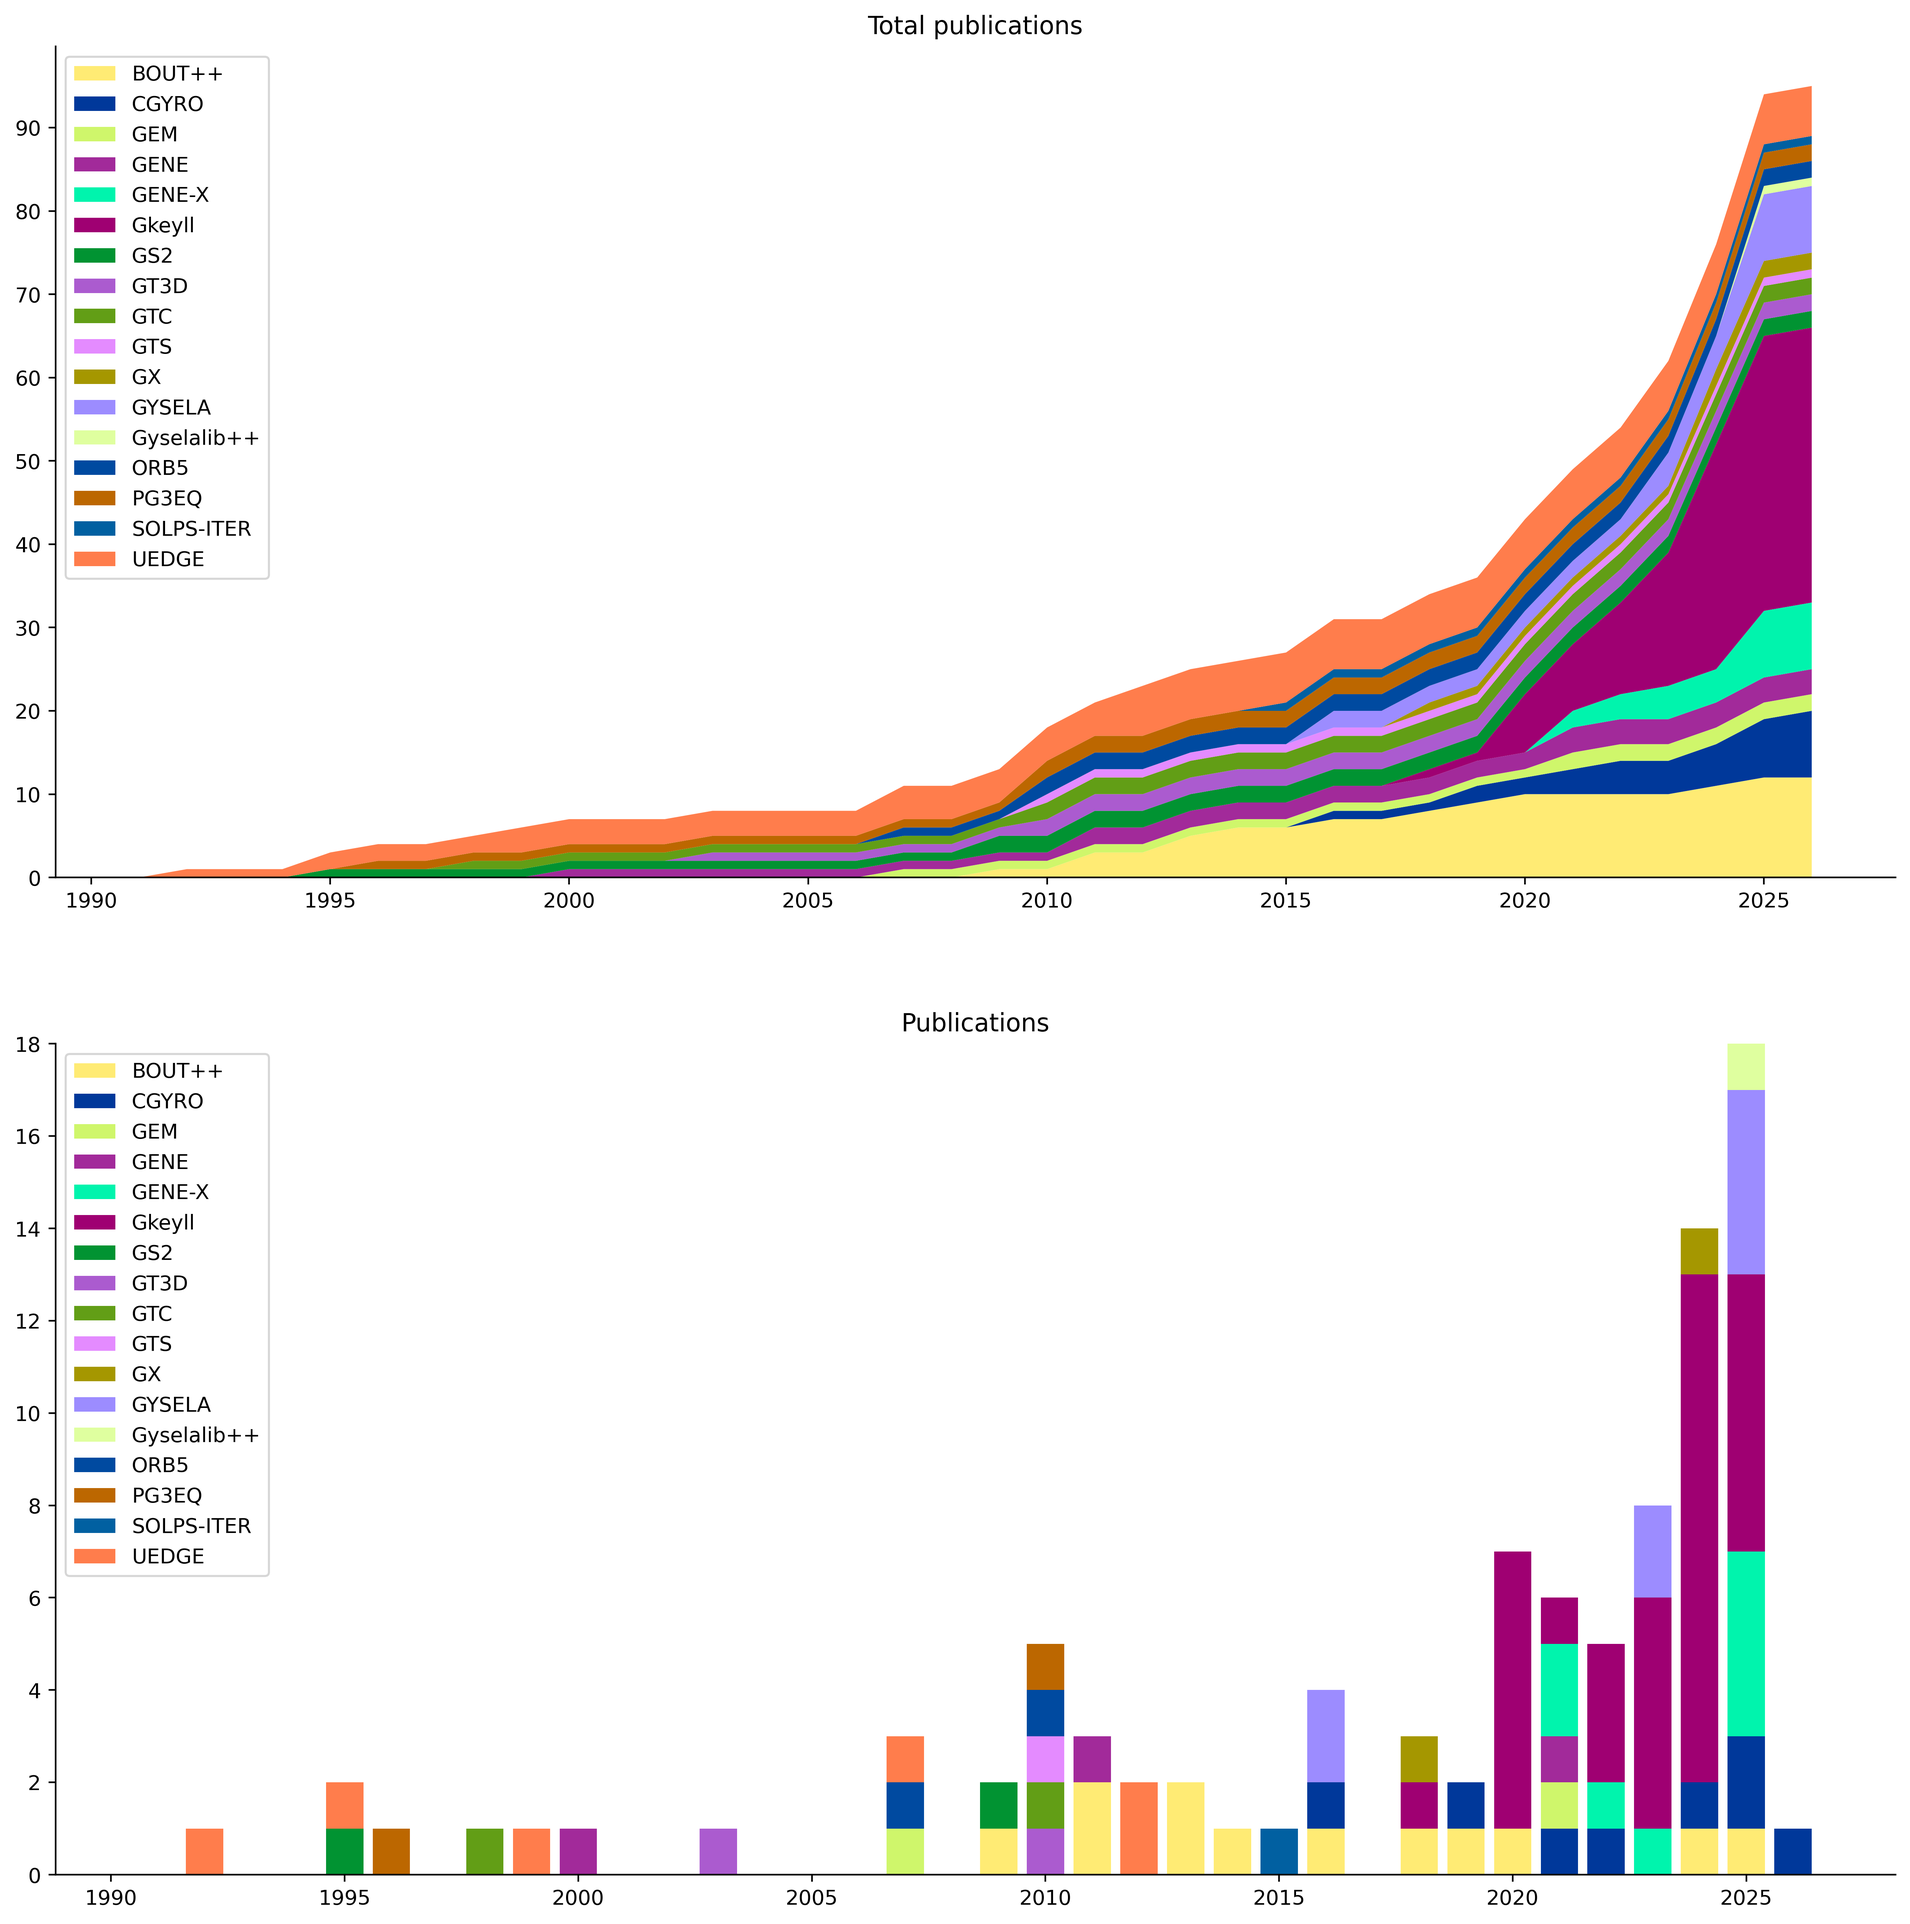
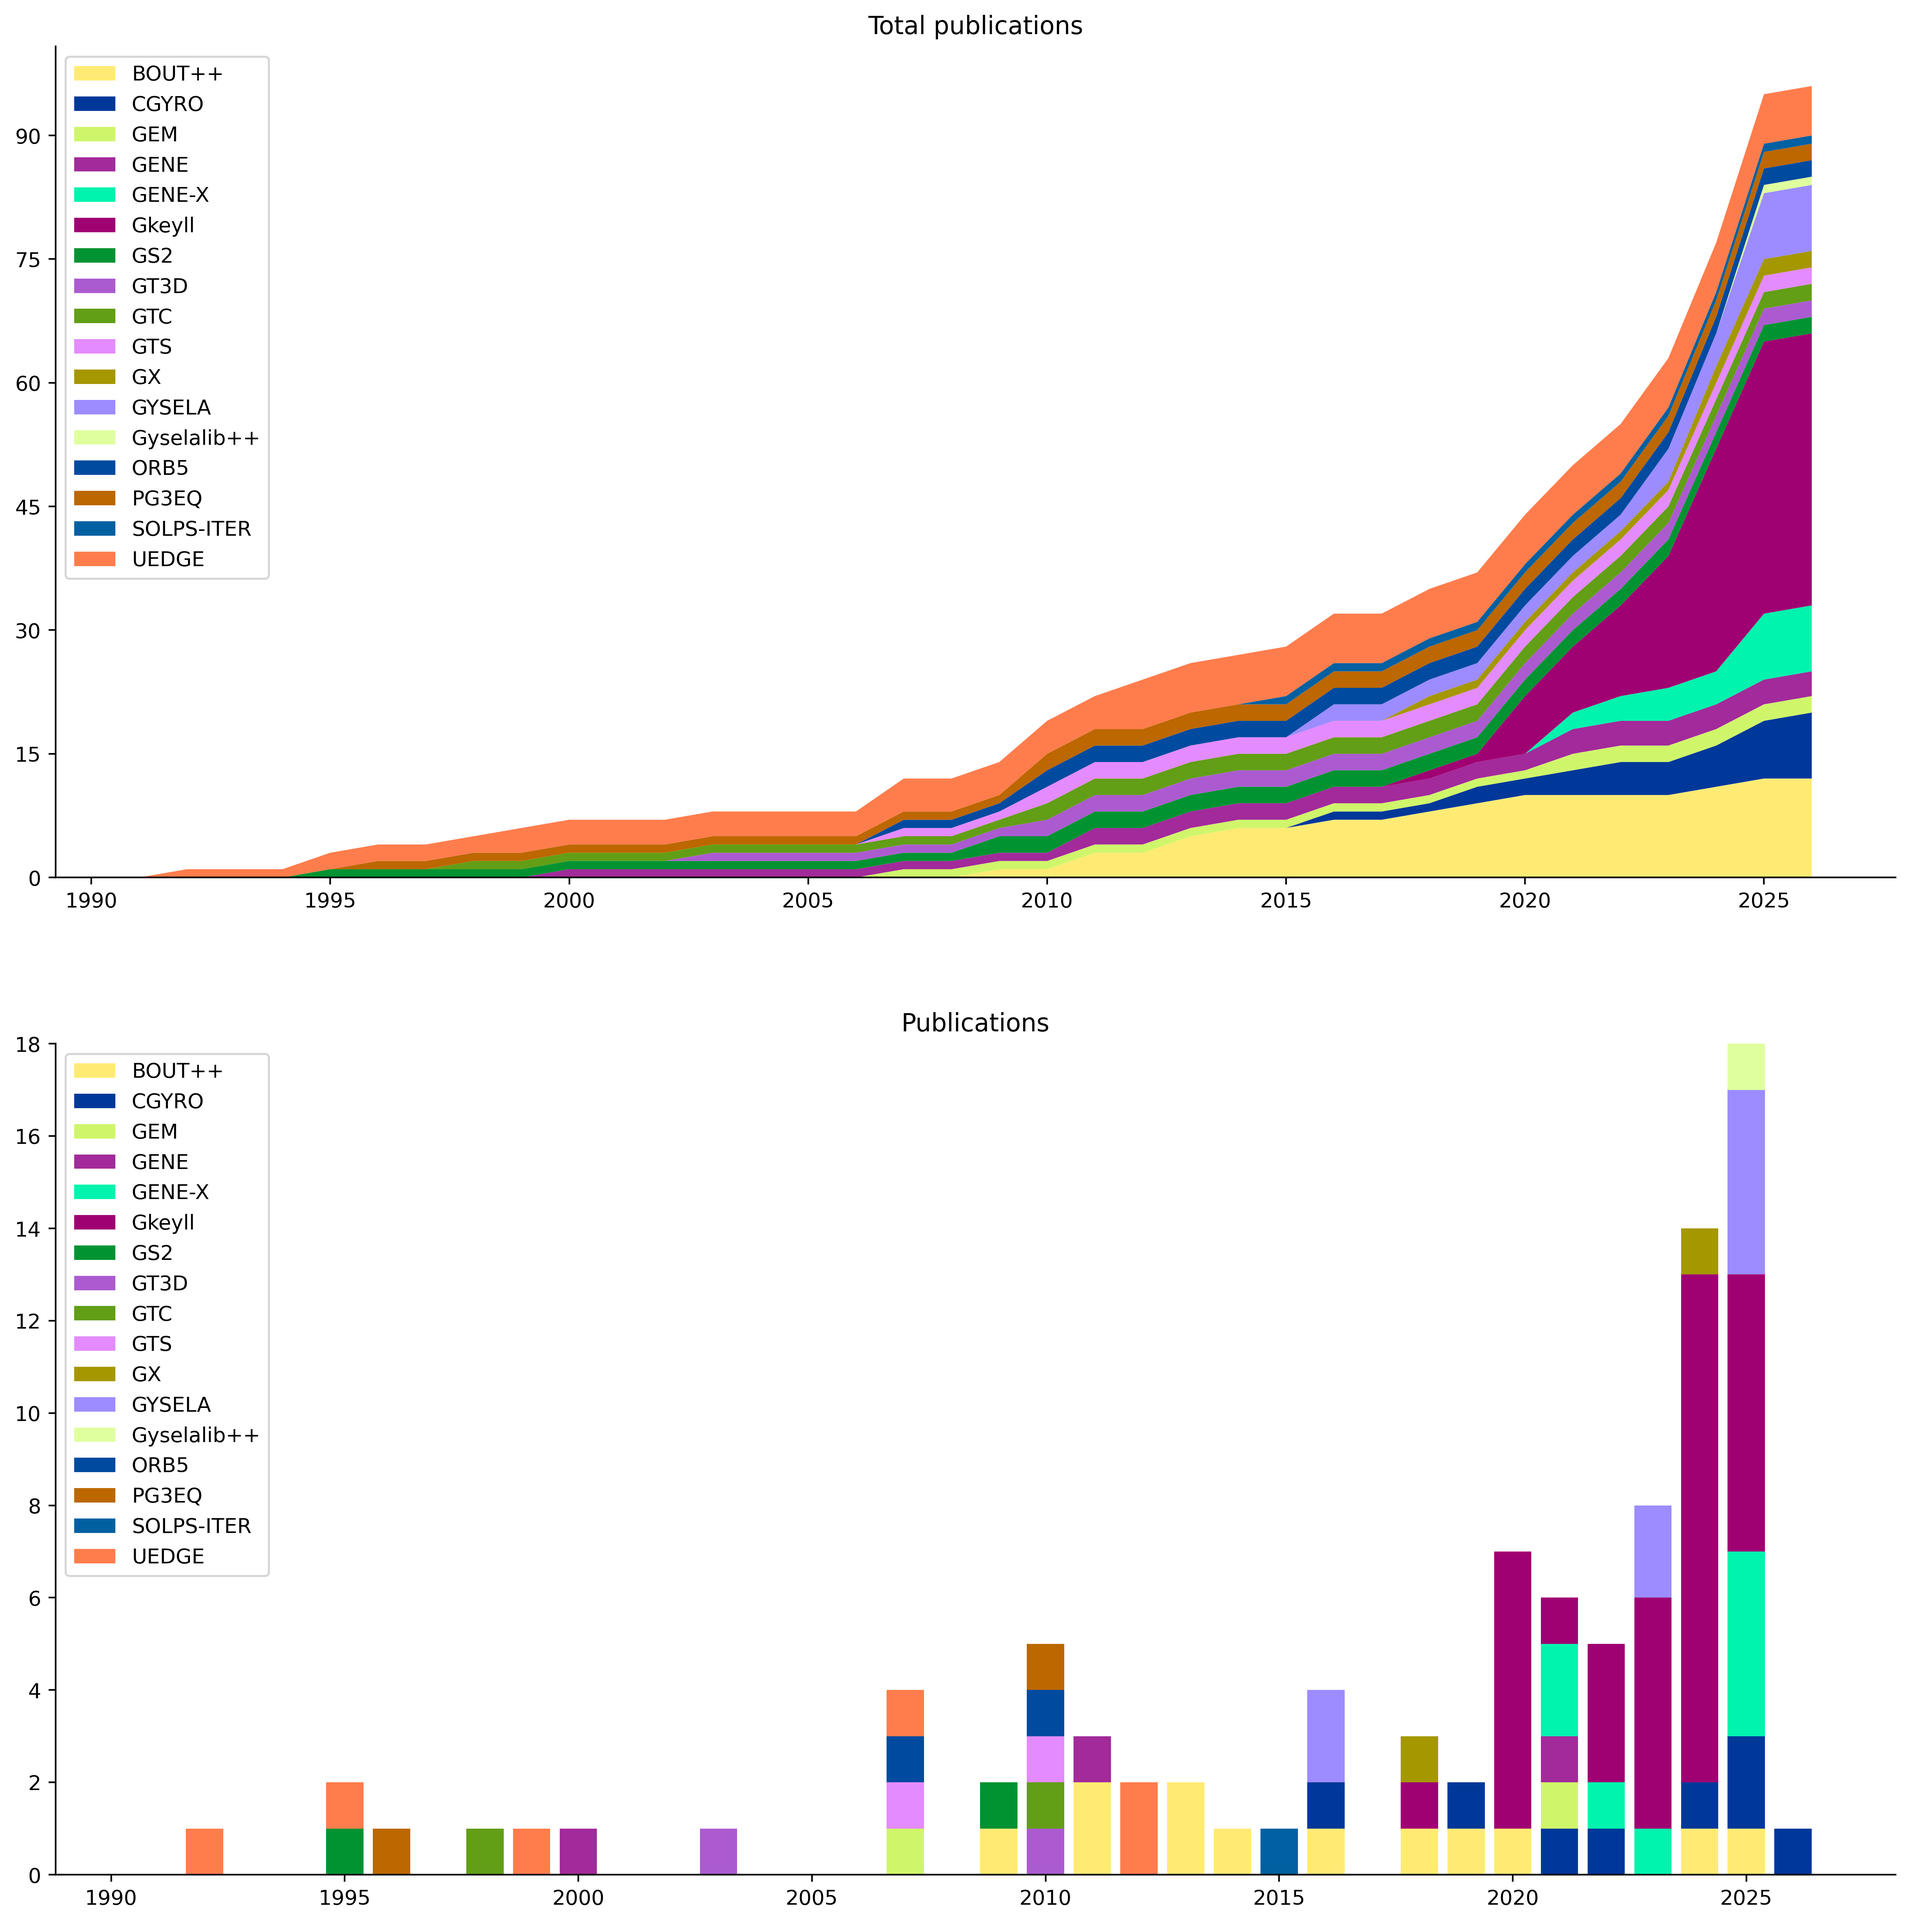
feat: add "10.1063/1.2750647"

Changed region(s): [[0.435, 0.125, 0.9633, 0.4373], [0.4661, 0.8747, 0.4972, 0.9684]]

diff --git a/README.md b/README.md
@@ -85,6 +85,7 @@
 - Introducing FACETS, the Framework Application for Core-Edge Transport Simulations. Cary at el. (2007) [10.1088/1742-6596/78/1/012086](https://doi.org/10.1088/1742-6596/78/1/012086)
 - Electromagnetic gyrokinetic *δf* particle-in-cell turbulence simulation with realistic equilibrium profiles and geometry. Chen and Parker (2007) [10.1016/j.jcp.2006.05.028](https://doi.org/10.1016/j.jcp.2006.05.028)
 - A global collisionless PIC code in magnetic coordinates. Jolliet at el. (2007) [10.1016/j.cpc.2007.04.006](https://doi.org/10.1016/j.cpc.2007.04.006)
+- Nonlocal properties of gyrokinetic turbulence and the role of *E×B* flow shear. Wang at el. (2007) [10.1063/1.2750647](https://doi.org/10.1063/1.2750647)
 - Global gyrokinetic simulation of ion temperature gradient driven turbulence in plasmas using a canonical Maxwellian distribution. Idomura at el. (2003) [10.1088/0029-5515/43/4/303](https://doi.org/10.1088/0029-5515/43/4/303)
 - Electron temperature gradient driven turbulence. Jenko at el. (2000) [10.1063/1.874014](https://doi.org/10.1063/1.874014)
 - Two-dimensional electric fields and drifts near the magnetic separatrix in divertor tokamaks. Rognlien at el. (1999) [10.1063/1.873488](https://doi.org/10.1063/1.873488)
